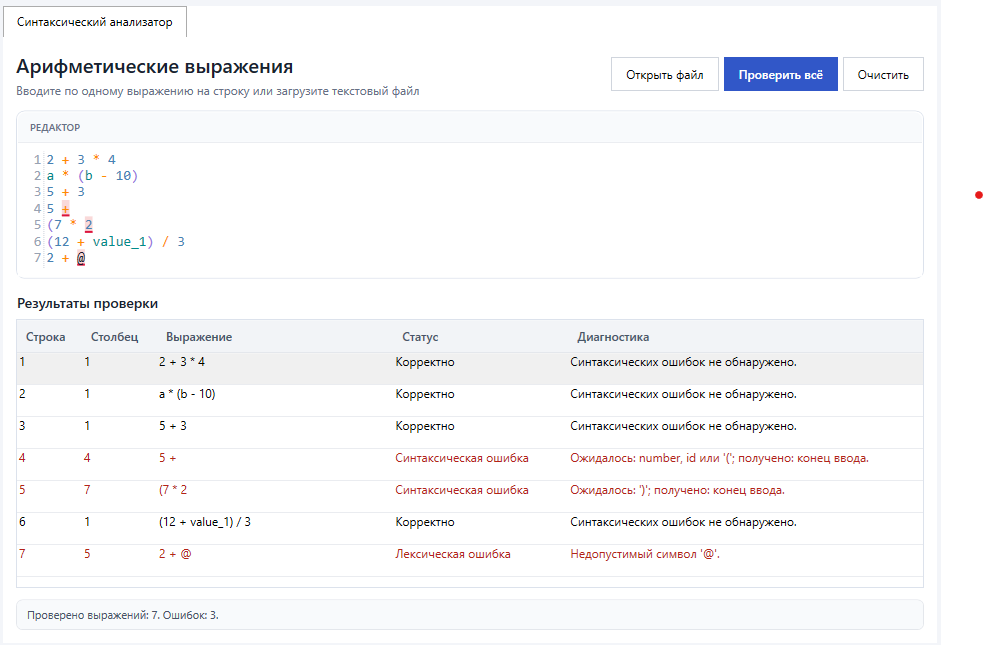
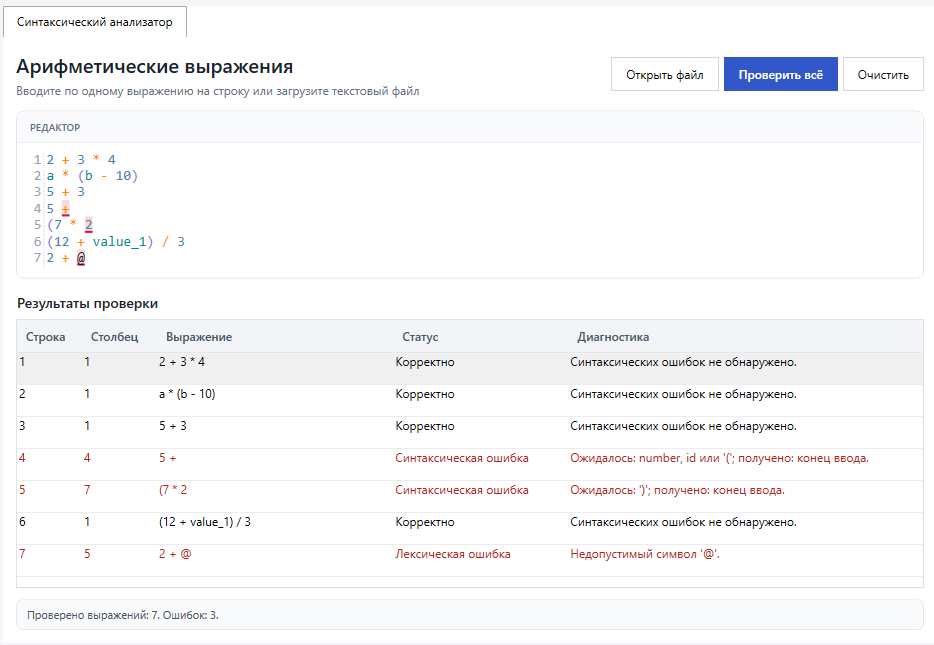
docs: fix image cropping

diff --git a/README.md b/README.md
@@ -2,13 +2,17 @@
 
 Набор библиотек для работы с формальными языками. Решение организовано по отдельным проектам: прикладная логика размещается в специализированных библиотеках, общие типы - в `FormalLanguageTools.Shared`, пользовательский интерфейс - в `FormalLanguageTools.App`, а юнит-тесты - в `FormalLanguageTools.Tests`. `FormalLanguageTools.TestBench` сохранён как консольный стенд для ручной проверки.
 
-## Сборка и запуск
+## Быстрый старт
+
+### Сборка
 
 Для сборки всех проектов из корневой папки решения:
 
 ```bash
 dotnet build
 ```
+
+### Запуск
 
 Для запуска WPF-приложения:
 
@@ -18,13 +22,26 @@ dotnet run --project FormalLanguageTools.App
 
 После запуска откроется рабочая среда `FormalLanguageTools`. На вкладке синтаксического анализатора можно ввести выражения вручную или загрузить их из текстового файла.
 
-Консольный стенд сохранён и может запускаться отдельно:
+Консольный стенд может запускаться отдельно:
 
 ```bash
 dotnet run --project FormalLanguageTools.TestBench
 ```
 
 После запуска введите путь к файлу с выражениями. Консольный стенд читает файл и передаёт каждую непустую строку библиотеке парсера.
+
+> [!NOTE]
+> Консольный стенд устарел и больше не развивается, далее вся демонстрация работы выполняется в `App`
+
+### Запуск юнит-тестов
+
+Юнит-тесты находятся в проекте `FormalLanguageTools.Tests`. Они проверяют как корректные выражения, так и обработку ошибок лексического и синтаксического анализа. Тесты сгруппированы по библиотекам: сейчас используется папка `ArithmeticParser`.
+
+Для запуска всех тестов проекта из корневой папки решения:
+
+```bash
+dotnet test
+```
 
 ## Синтаксический анализ арифметических выражений
 
@@ -75,16 +92,6 @@ dotnet run --project FormalLanguageTools.TestBench
 ### Скриншоты интерфейса
 
 ![Главное окно FormalLanguageTools](docs/images/formal-language-tools-main.png)
-
-## Запуск юнит-тестов
-
-Юнит-тесты находятся в проекте `FormalLanguageTools.Tests`. Они проверяют как корректные выражения, так и обработку ошибок лексического и синтаксического анализа. Тесты сгруппированы по библиотекам: сейчас используется папка `ArithmeticParser`.
-
-Для запуска всех тестов проекта из корневой папки решения:
-
-```bash
-dotnet test
-```
 
 ## Обработка исключений
 
